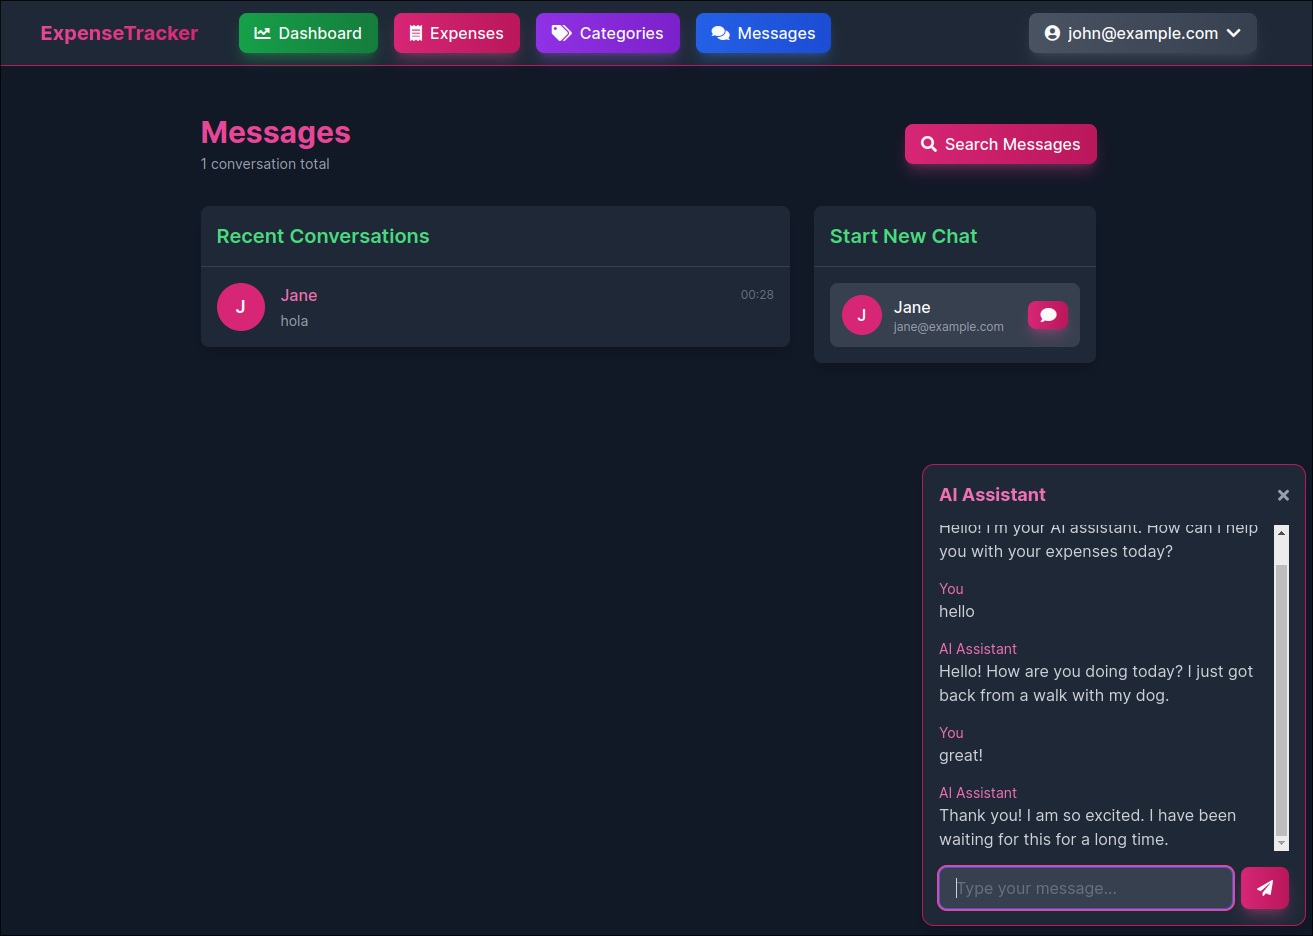
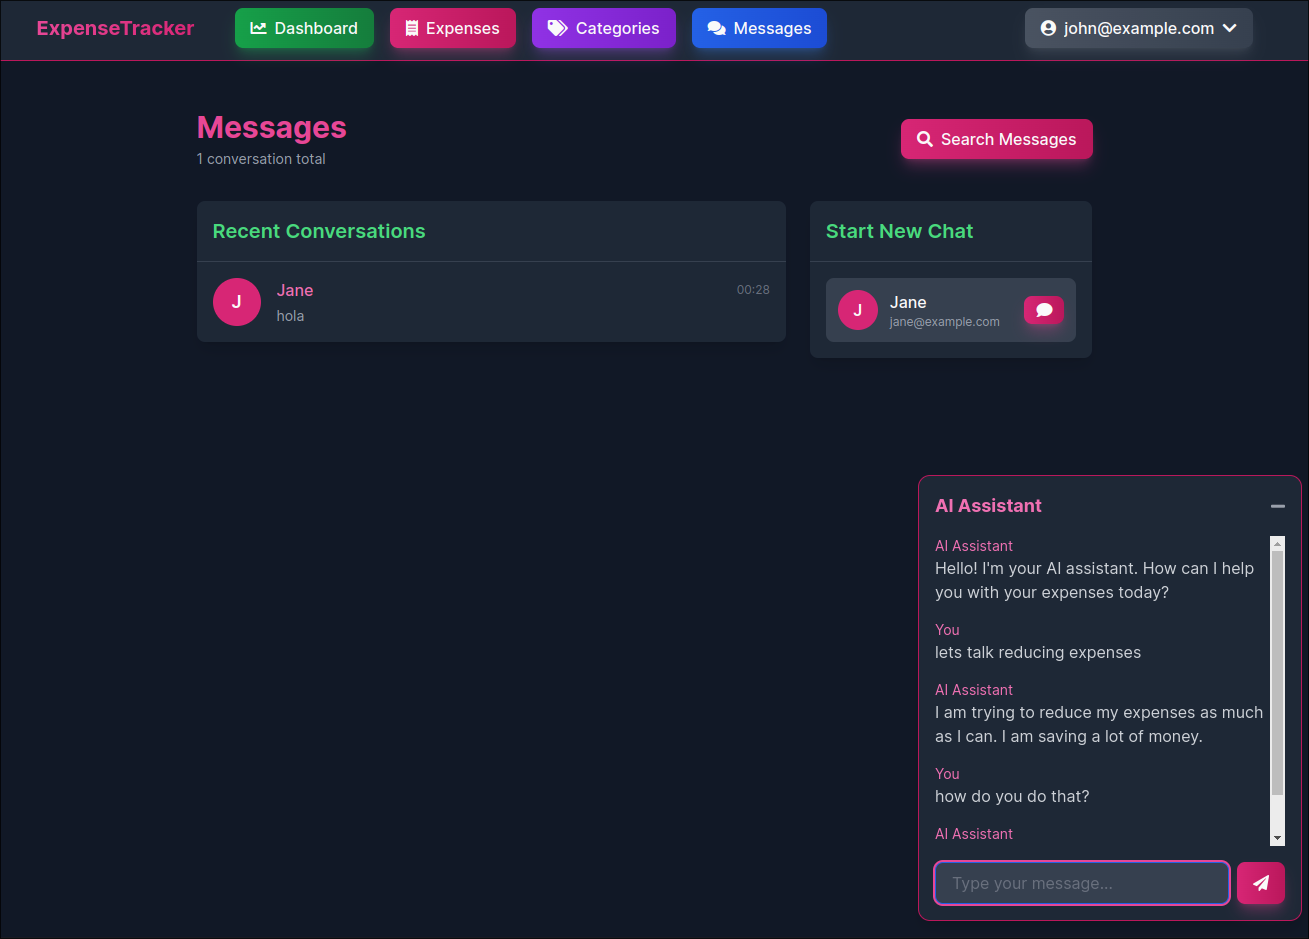
Add AI Chat, screenshots and update README

diff --git a/app/javascript/controllers/ai_chat_controller.js b/app/javascript/controllers/ai_chat_controller.js
@@ -1,19 +1,25 @@
 import { Controller } from "@hotwired/stimulus"
 
 export default class extends Controller {
-  static targets = ["messages", "input"]
+  static targets = ["messages", "input", "content", "toggleIcon"]
 
   connect() {
     this.messagesTarget.scrollTop = this.messagesTarget.scrollHeight
+    this.isMinimized = false
   }
 
   toggle(event) {
     event.preventDefault()
-    const container = this.element
-    if (container.style.display === "none") {
-      container.style.display = "block"
+    this.isMinimized = !this.isMinimized
+    
+    if (this.isMinimized) {
+      this.contentTarget.style.display = "none"
+      this.toggleIconTarget.classList.remove("fa-minus")
+      this.toggleIconTarget.classList.add("fa-plus")
     } else {
-      container.style.display = "none"
+      this.contentTarget.style.display = "flex"
+      this.toggleIconTarget.classList.remove("fa-plus")
+      this.toggleIconTarget.classList.add("fa-minus")
     }
   }
 

diff --git a/README.md b/README.md
@@ -25,9 +25,8 @@ A modern expense tracking application built with Ruby on Rails, featuring real-t
 ![alt text](gallery/messages.png)
 
 #### Conversations:
-![alt text](gallery/conversations.png)
-![alt text](gallery/conversations_search.png)
 ![alt text](gallery/conversations_ai.png)
+![alt text](gallery/conversations_search.png)
 
 #### Expenses:
 ![alt text](gallery/expenses.png)
